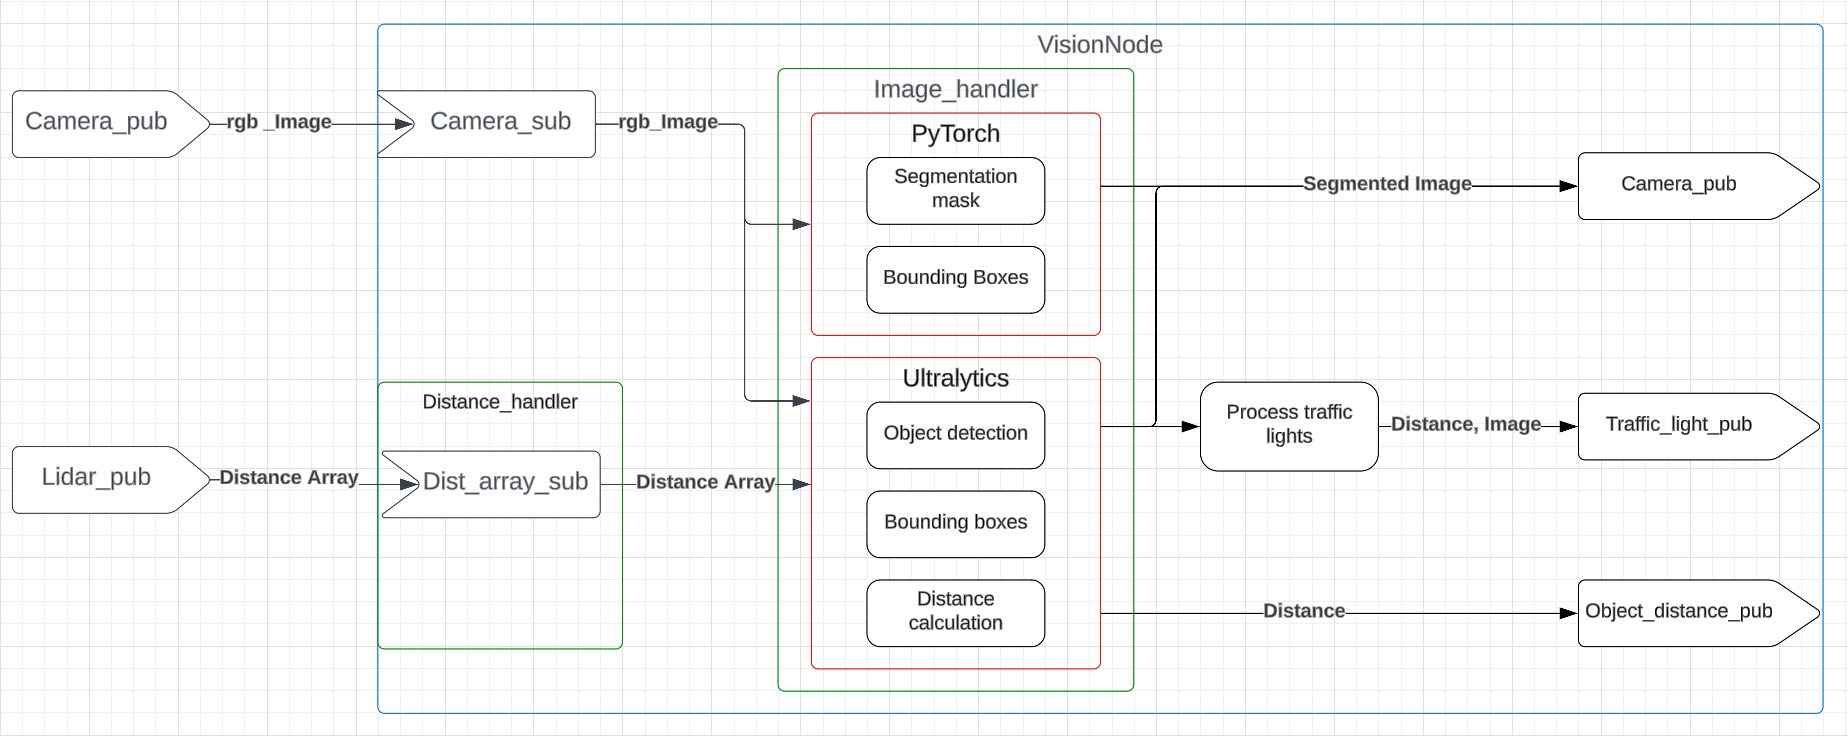
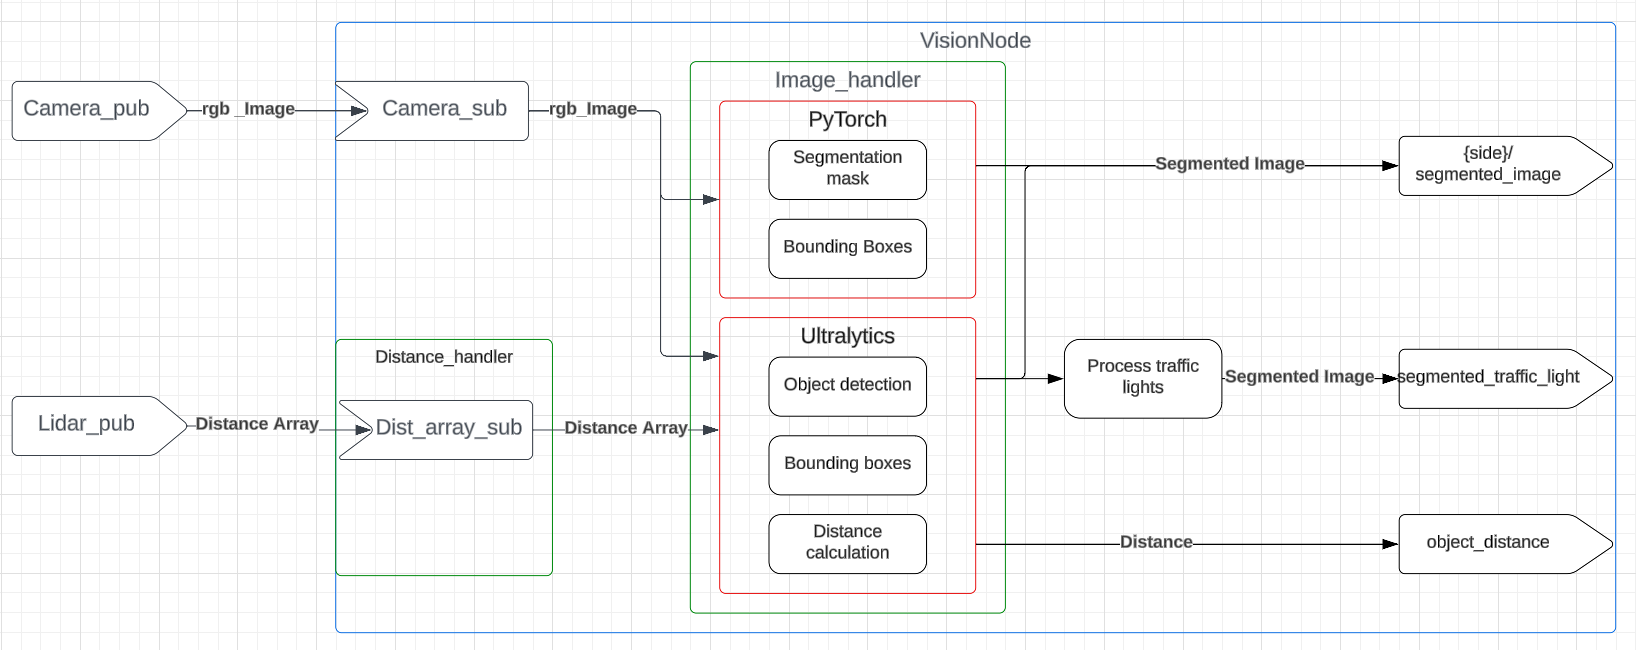
updated diagram and description

diff --git a/doc/research/paf24/perception/Vision_Node_Dataflow.md b/doc/research/paf24/perception/Vision_Node_Dataflow.md
@@ -19,9 +19,9 @@ The **VisionNode** system processes camera images and LIDAR data to detect objec
      - **Ultralytics**: Focused on object detection, bounding boxes and distance calculations. This module generates bounding boxes for identified objects and calculates distances based on LIDAR input. It also passes data to the traffic light processing function
 
 3. **Submodules and Data Processing**
-   - **Traffic Light Processing**: This submodule within the Image Handler processes detected traffic lights. Using distance and image data from object detection, it identifies the position of traffic lights and publishes its image data.
+   - **Traffic Light Processing**: This submodule processes detected traffic lights. Using distance and image data from object detection, it identifies the position of traffic lights and publishes its image data.
 
 4. **Outputs**
-   - **Camera Publisher**: Publishes the segmented image data after processing by PyTorch, which includes identified objects and their segmentation masks.
-   - **Traffic Light Publisher**: Publishes the state and position of traffic lights along with corresponding distance data.
-   - **Object Distance Publisher**: Publishes the calculated distances of detected objects based on LIDAR data and object detection results.
+   - **{side}/segmented_image**: Publishes the segmented image data corresponding to the camera angle after processing by PyTorch, which includes identified objects and their segmentation masks.
+   - **segmented_traffic_light**: Publishes the segmented image of a detected traffic light.
+   - **object_distance**: Publishes the calculated distances of detected objects based on LIDAR data and object detection results.
